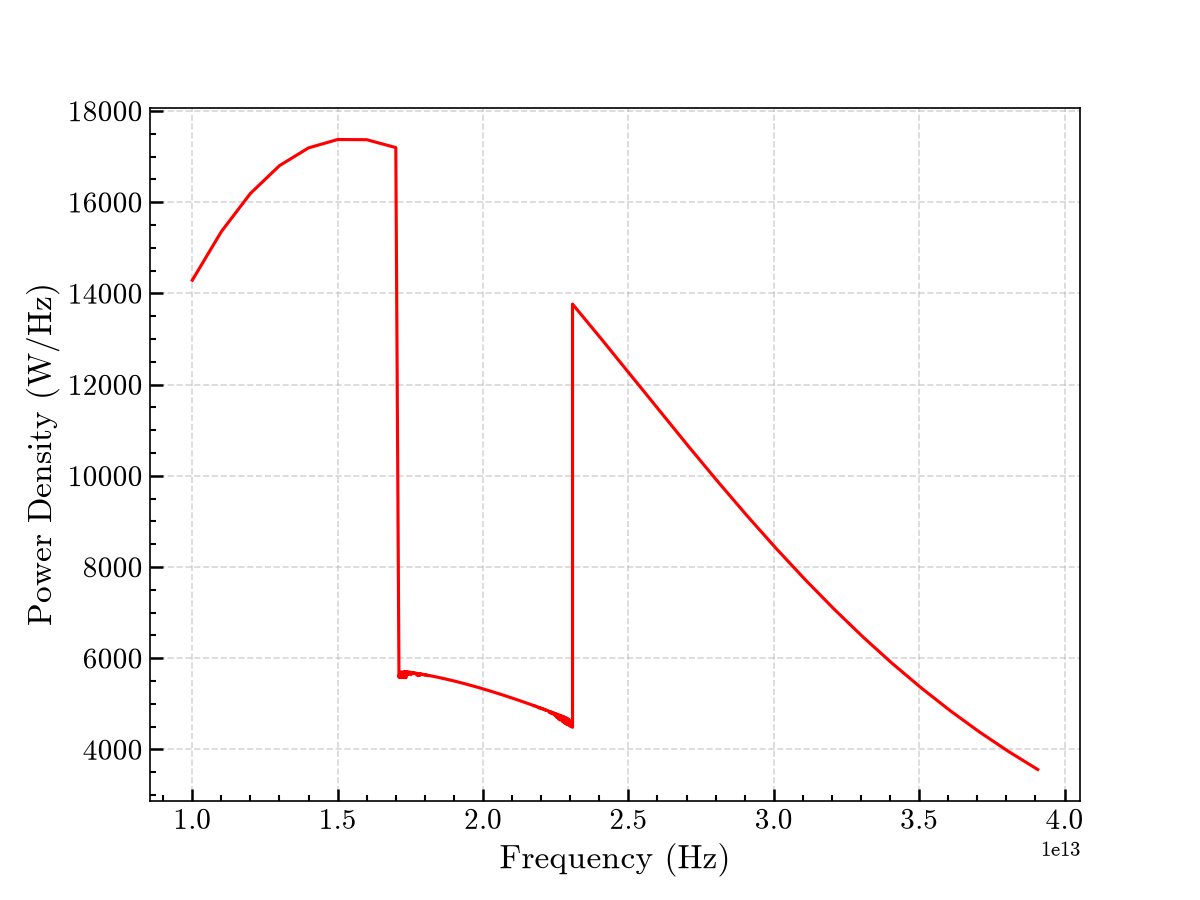
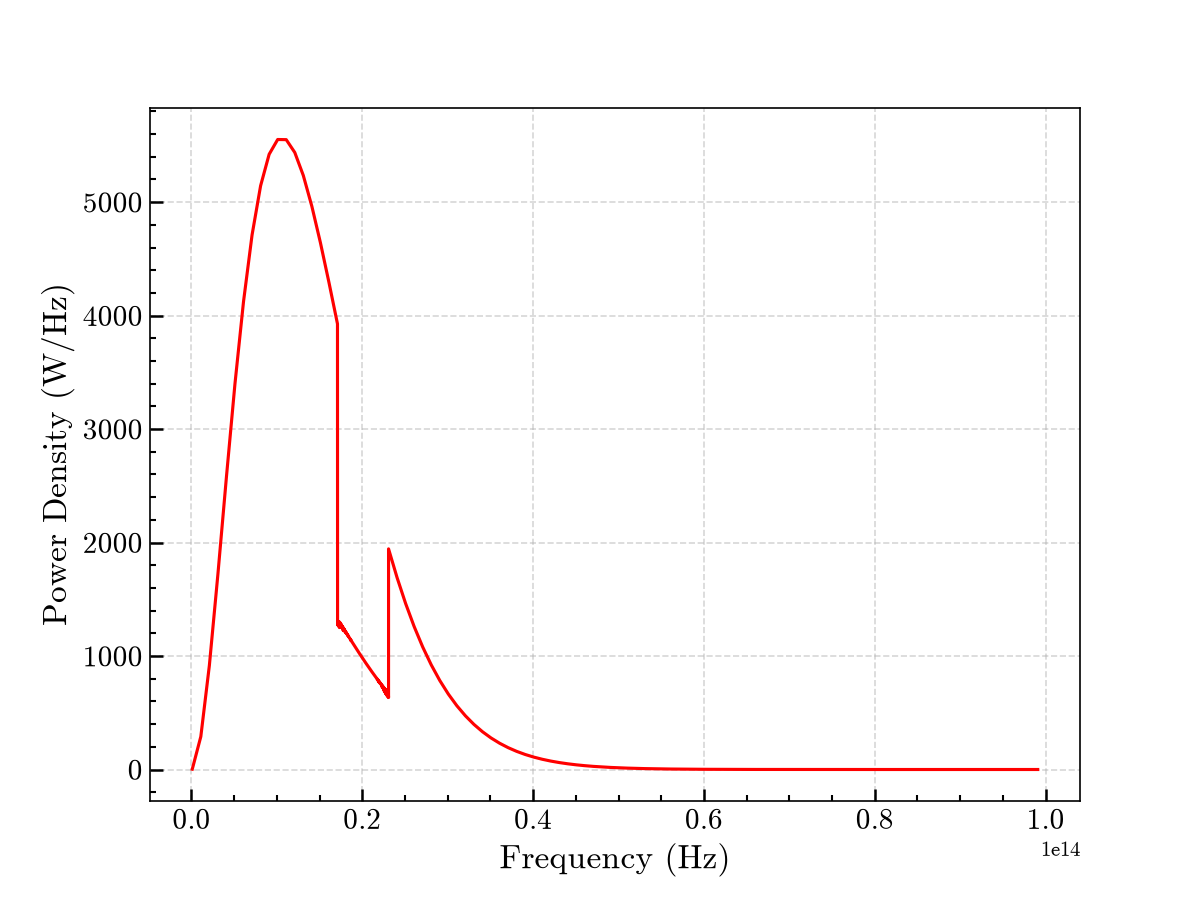
simulation with loop 1

diff --git a/src/Atmospheric Energy Balance.py b/src/Atmospheric Energy Balance.py
@@ -13,8 +13,6 @@ start_time = time.time()
 #PARAMETERS
 max_altitude = 32000 # these two parameters dont matter anymore with our new single layer model
 no_altitude_steps = 1
-
-earth_temp = 273.15 - 10
 albedo = average_albedo
 CO2_ppm = co2_concentration
 atm_pressure = standard_earth_pressure
@@ -65,41 +63,92 @@ for r in range(length_of_HITRAN_filtered):
     for i in range(length_of_HITRAN_filtered):
         cross_section_matrix[r] += cross_section(i, wavenumber[r], spectral_line_intensity, wavenumber, pressure_broadening)
 
+#parameters for loop:
+tolerance = 10**17
+error = 10**18
+trial_temps = np.array([100, 260])
 
 
-# schwarschild time!!
-# just doing single layer
-length_of_HITRAN_filtered = length_of_HITRAN_filtered
-spectral_radiance_array = np.empty(length_of_HITRAN_filtered)
-z_0 = (boltzmann * earth_temp) / (g * average_mass_air_molecule)
-trop_temp = earth_temp - 0.000649 * z_0 * math.log((1 - 0.75), 10)
-for i in range(length_of_HITRAN_filtered):
-    optical_depth = atm_number_density_CO2 * cross_section_matrix[i] * z_0
-    exp_optical_depth = np.exp( -1 * optical_depth)
-    spectral_radiance_array[i] = (planck_spectrum(absorption_frequencies[i], earth_temp)*exp_optical_depth ) + ( planck_spectrum(absorption_frequencies[i], trop_temp) * (1 - exp_optical_depth))
-spectral_irradiance_array = 4 * (np.pi**2) * ((average_earth_radius+max_altitude)**2) * spectral_radiance_array # power per frequency becuase we integrate over solid angle and mutliply by surface area of sphere
-#Integrate over frequency:
-earth_power_co2 = simpson(spectral_irradiance_array, absorption_frequencies)
+total_earth_power_trial = np.array([0, 0])
+for k in range(len(trial_temps)):
+    earth_temp = trial_temps[k]
+    length_of_HITRAN_filtered = length_of_HITRAN_filtered
+    spectral_radiance_array = np.empty(length_of_HITRAN_filtered)
+    z_0 = (boltzmann * earth_temp) / (g * average_mass_air_molecule)
+    trop_temp = earth_temp - 0.000649 * z_0 * math.log((1 - 0.75), 10)
+    for i in range(length_of_HITRAN_filtered):
+        optical_depth = atm_number_density_CO2 * cross_section_matrix[i] * z_0
+        exp_optical_depth = np.exp( -1 * optical_depth)
+        spectral_radiance_array[i] = (planck_spectrum(absorption_frequencies[i], earth_temp)*exp_optical_depth ) + ( planck_spectrum(absorption_frequencies[i], trop_temp) * (1 - exp_optical_depth))
+    spectral_irradiance_array = 4 * (np.pi**2) * ((average_earth_radius+max_altitude)**2) * spectral_radiance_array # power per frequency becuase we integrate over solid angle and mutliply by surface area of sphere
+    #Integrate over frequency:
+    earth_power_co2 = simpson(spectral_irradiance_array, absorption_frequencies)
+    
+    # integrate other parts of earth spectrum: replace this with actual data at some point?
+    freq_step_size = 10**12
+    min_freq = 10**11
+    max_freq = 10**14
+    frequencies_section_1 = np.arange(min_freq, absorption_frequencies[0], freq_step_size)
+    SI_1 = np.zeros(len(frequencies_section_1))
+    for i in range(len(frequencies_section_1)):
+        SI_1[i] = spectral_irradiance(average_earth_radius, max_altitude + average_earth_radius, frequencies_section_1[i], earth_temp)
+    earth_power_1 = simpson(4 * (np.pi**2) * ((average_earth_radius+max_altitude)**2) * SI_1, frequencies_section_1) # multiplied by solid angle and surface area of atmosphere top, then integrate for power
+    frequencies_section_3 = np.arange(absorption_frequencies[-1], max_freq, freq_step_size)
+    SI_3 = np.zeros(len(frequencies_section_3))
+    for i in range(len(frequencies_section_3)):
+        SI_3[i] = spectral_irradiance(average_earth_radius, max_altitude + average_earth_radius, frequencies_section_3[i], earth_temp)
+    earth_power_3 = simpson(4 * (np.pi**2) * ((average_earth_radius+max_altitude)**2) * SI_3, frequencies_section_3) # multiplied by solid angle and surface area of atmosphere top, then integrate for power
+    
+    total_earth_power_trial[k] = earth_power_1 + earth_power_co2 + earth_power_3
 
-# integrate other parts of earth spectrum: replace this with actual data at some point?
-freq_step_size = 10**12
-min_freq = 0.1*10**14
-max_freq = 0.4*10**14
-frequencies_section_1 = np.arange(min_freq, absorption_frequencies[0], freq_step_size)
-SI_1 = np.zeros(len(frequencies_section_1))
-for i in range(len(frequencies_section_1)):
-    SI_1[i] = spectral_irradiance(average_earth_radius, max_altitude + average_earth_radius, frequencies_section_1[i], earth_temp)
-earth_power_1 = simpson(4 * (np.pi**2) * ((average_earth_radius+max_altitude)**2) * SI_1, frequencies_section_1) # multiplied by solid angle and surface area of atmosphere top, then integrate for power
-frequencies_section_3 = np.arange(absorption_frequencies[-1], max_freq, freq_step_size)
-SI_3 = np.zeros(len(frequencies_section_3))
-for i in range(len(frequencies_section_3)):
-    SI_3[i] = spectral_irradiance(average_earth_radius, max_altitude + average_earth_radius, frequencies_section_3[i], earth_temp)
-earth_power_3 = simpson(4 * (np.pi**2) * ((average_earth_radius+max_altitude)**2) * SI_3, frequencies_section_3) # multiplied by solid angle and surface area of atmosphere top, then integrate for power
+assert total_earth_power_trial[0] < sun_power
+assert total_earth_power_trial[1] > sun_power
 
-total_earth_power = earth_power_1 + earth_power_co2 + earth_power_3
+while abs(error) > tolerance:
+    # schwarschild time!!
+    # just doing single layer
+    earth_temp = (trial_temps[0] + trial_temps[1]) / 2
+    length_of_HITRAN_filtered = length_of_HITRAN_filtered
+    spectral_radiance_array = np.empty(length_of_HITRAN_filtered)
+    z_0 = (boltzmann * earth_temp) / (g * average_mass_air_molecule)
+    trop_temp = earth_temp - 0.000649 * z_0 * math.log((1 - 0.75), 10)
+    for i in range(length_of_HITRAN_filtered):
+        optical_depth = atm_number_density_CO2 * cross_section_matrix[i] * z_0
+        exp_optical_depth = np.exp( -1 * optical_depth)
+        spectral_radiance_array[i] = (planck_spectrum(absorption_frequencies[i], earth_temp)*exp_optical_depth ) + ( planck_spectrum(absorption_frequencies[i], trop_temp) * (1 - exp_optical_depth))
+    spectral_irradiance_array = 4 * (np.pi**2) * ((average_earth_radius+max_altitude)**2) * spectral_radiance_array # power per frequency becuase we integrate over solid angle and mutliply by surface area of sphere
+    #Integrate over frequency:
+    earth_power_co2 = simpson(spectral_irradiance_array, absorption_frequencies)
+
+    # integrate other parts of earth spectrum: replace this with actual data at some point?
+    freq_step_size = 10**12
+    min_freq = 10**11
+    max_freq = 10**14
+    frequencies_section_1 = np.arange(min_freq, absorption_frequencies[0], freq_step_size)
+    SI_1 = np.zeros(len(frequencies_section_1))
+    for i in range(len(frequencies_section_1)):
+        SI_1[i] = spectral_irradiance(average_earth_radius, max_altitude + average_earth_radius, frequencies_section_1[i], earth_temp)
+    earth_power_1 = simpson(4 * (np.pi**2) * ((average_earth_radius+max_altitude)**2) * SI_1, frequencies_section_1) # multiplied by solid angle and surface area of atmosphere top, then integrate for power
+    frequencies_section_3 = np.arange(absorption_frequencies[-1], max_freq, freq_step_size)
+    SI_3 = np.zeros(len(frequencies_section_3))
+    for i in range(len(frequencies_section_3)):
+        SI_3[i] = spectral_irradiance(average_earth_radius, max_altitude + average_earth_radius, frequencies_section_3[i], earth_temp)
+    earth_power_3 = simpson(4 * (np.pi**2) * ((average_earth_radius+max_altitude)**2) * SI_3, frequencies_section_3) # multiplied by solid angle and surface area of atmosphere top, then integrate for power
+
+    total_earth_power = earth_power_1 + earth_power_co2 + earth_power_3
+    if total_earth_power < sun_power:
+        trial_temps[0] = earth_temp
+    else:
+        trial_temps[1] = earth_temp
+    error = total_earth_power - sun_power
 
 print(total_earth_power)
 print(sun_power)
+print(earth_temp)
+
+
+end_time = time.time()
+print(f"Execution time: {end_time - start_time} seconds")
 
 #plot this bad boy
 import matplotlib as mpl
@@ -125,6 +174,3 @@ ax.grid(True, which="major", linestyle="--", alpha=0.5)
 plt.savefig("earth_power_plot.png", dpi=150)
 plt.show()
 
-
-end_time = time.time()
-print(f"Execution time: {end_time - start_time} seconds")
